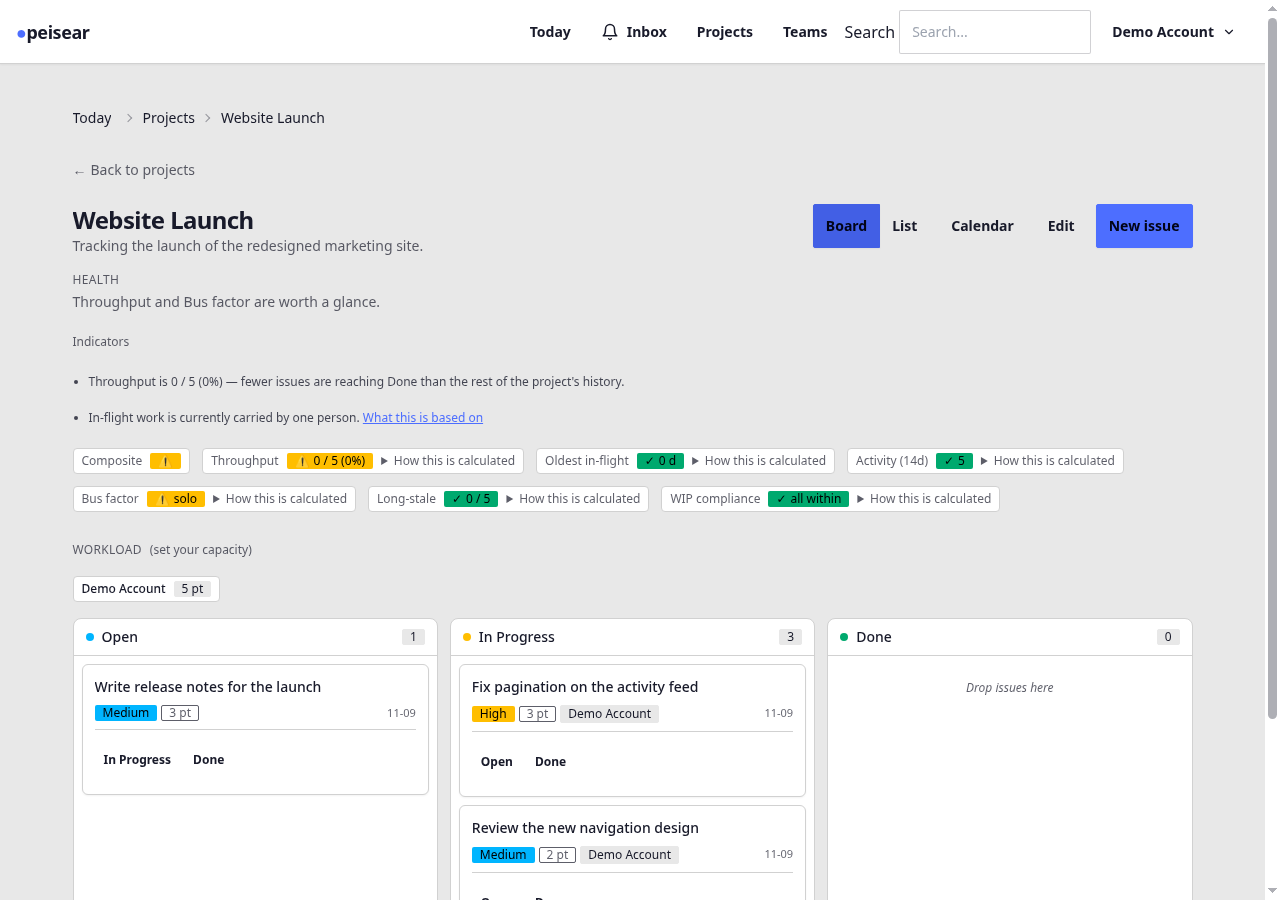
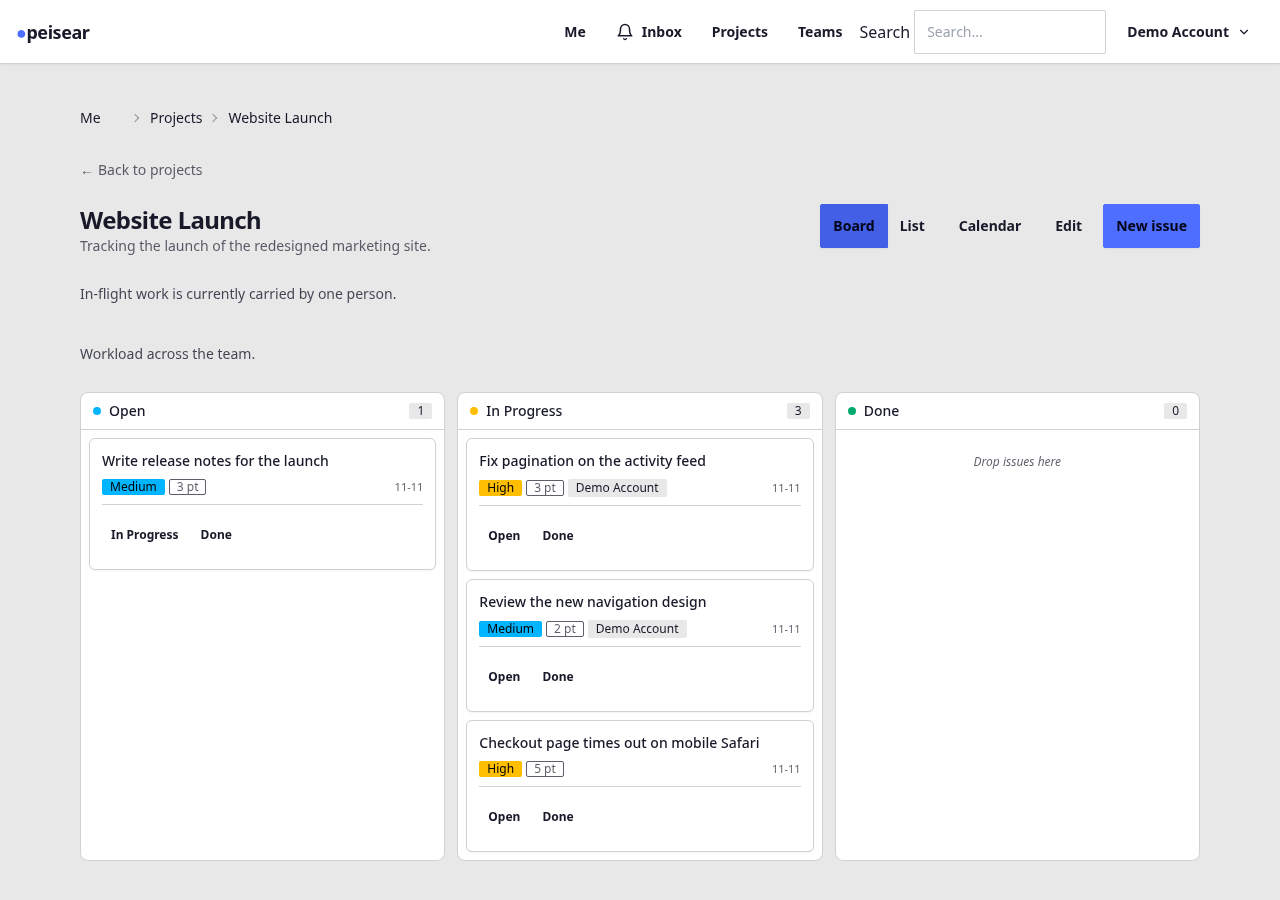
The published images catch up with the product, and one caption that the new ones made false
PREP-001 regenerated the six screenshots doc-screenshots.mjs owns and
left them uncommitted deliberately, so that gathering the evidence and
acting on it were not the same pass. I opened all six myself before
committing them: every navigation word and breadcrumb root reads `Me`,
board.png and list.png show the health block and the workload strip each
collapsed to one line with the work directly beneath, and no image
carries a path, hostname, port or real name -- only fixture data.

README.md's board caption said the health indicators were "expanded to
show the full breakdown". That was true of the old image and is false of
this release; it now describes the one-line summary the reader actually
sees. The round reported it rather than editing prose it was not asked
to edit, which was right.

The seventh PNG, band600.png, is left alone: it is referenced nowhere in
README.md or docs/, is produced by no committed script, and reaches no
reader. My own handoff called all seven "published in the book and in
README.md" and that was wrong -- the round checked it instead of
inheriting it.

Pass 5's own sweep of the reader-facing documents found nothing else:
no page names the navigation entry `Today`, none says "My dashboard",
and static-js-verification.md's single `toast` mention is a historical
account of a defect that really did exist then.

docs_scan 46 passed (including rule 6's README image-link check), exit
0; mdbook build exit 0.

diff --git a/README.md b/README.md
@@ -31,7 +31,7 @@ oversight role.
 One Rust binary, one SQLite file, no Node toolchain, no external
 services.
 
-![The kanban board: issue cards in Open, In Progress and Done columns, with the project health indicators expanded to show the full breakdown](https://github.com/nabbisen/peisear/raw/main/docs/src/assets/screenshots/board.png)
+![The kanban board: issue cards in Open, In Progress and Done columns, with the project's health and workload each summarised in one line above them](https://github.com/nabbisen/peisear/raw/main/docs/src/assets/screenshots/board.png)
 
 ## Why peisear?
 
